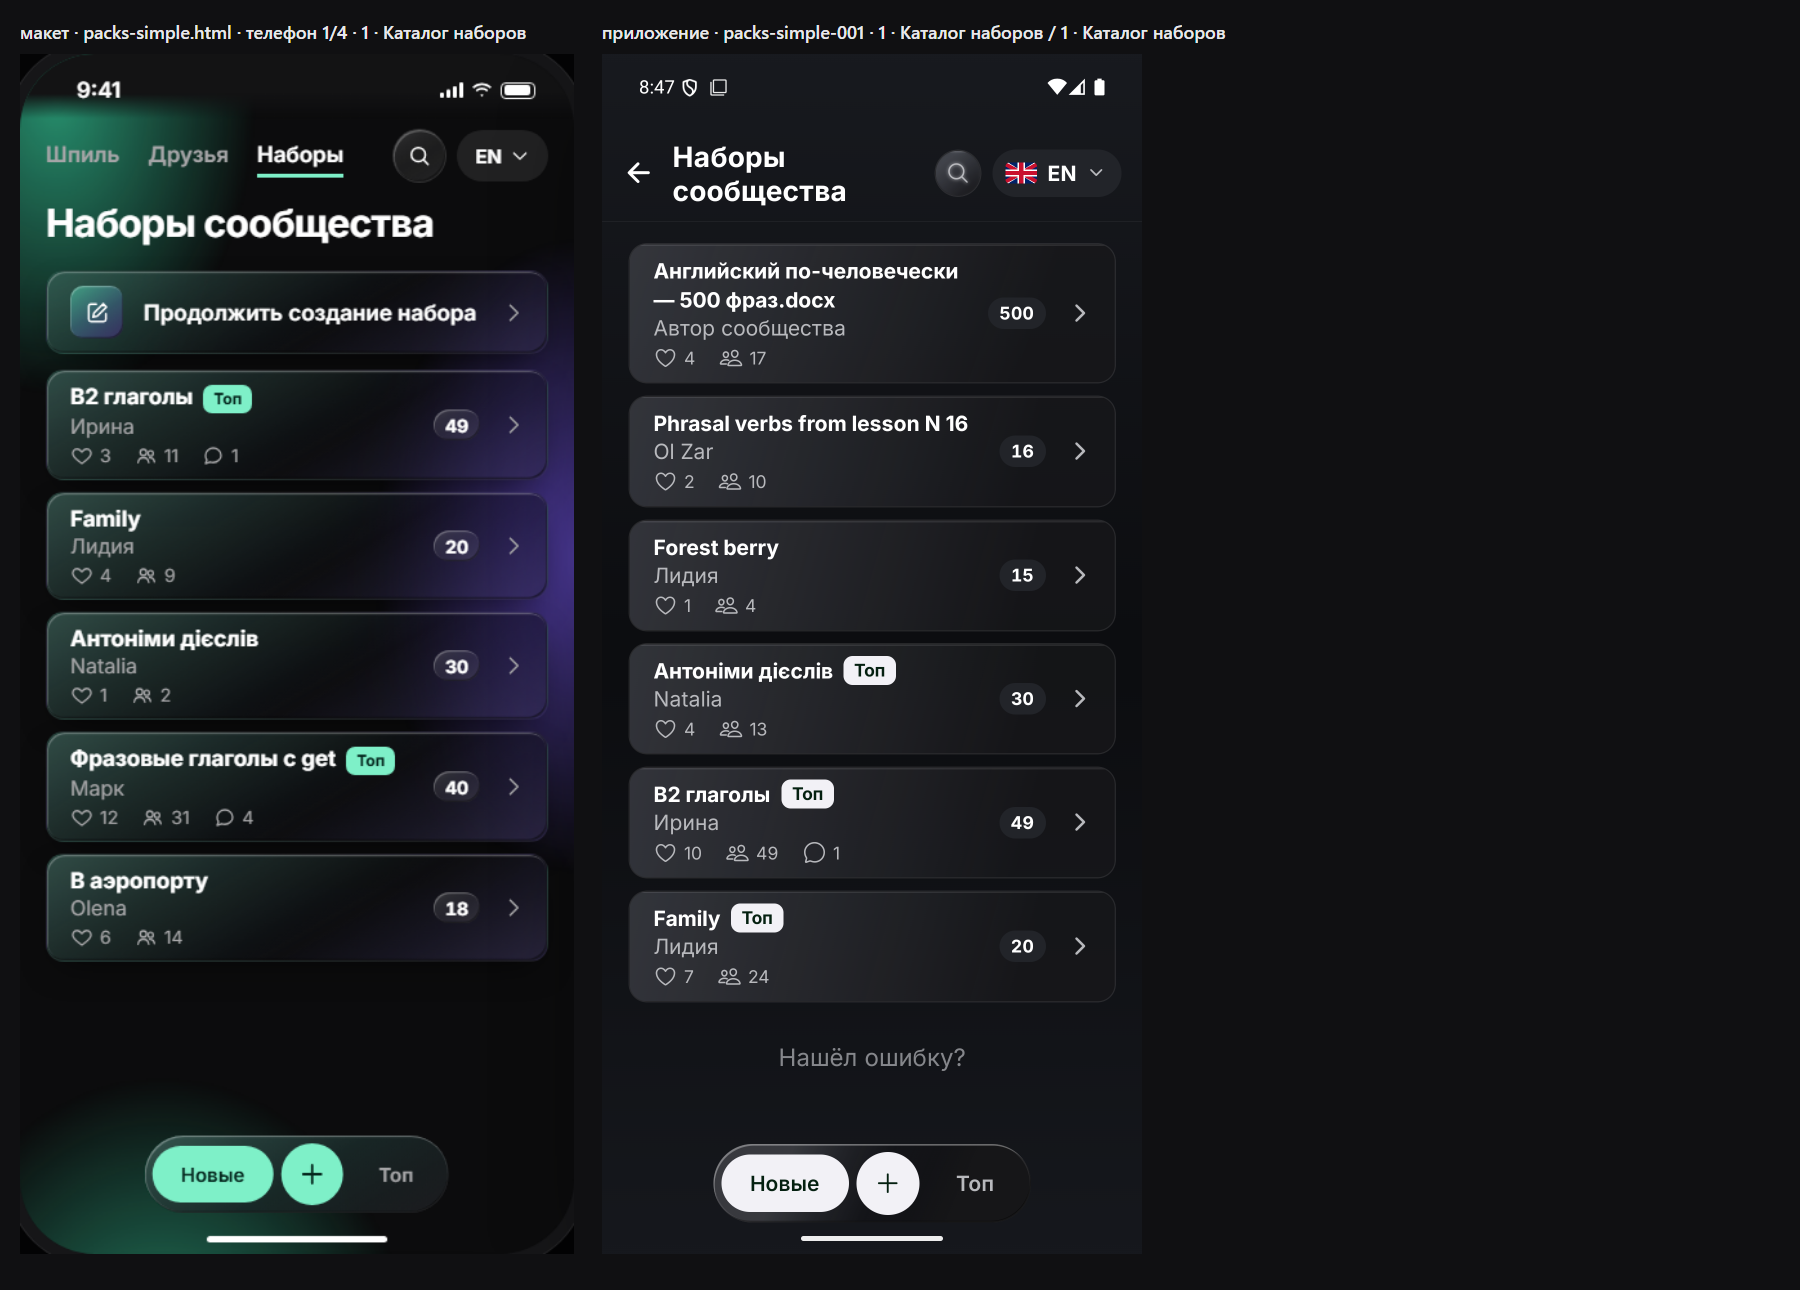
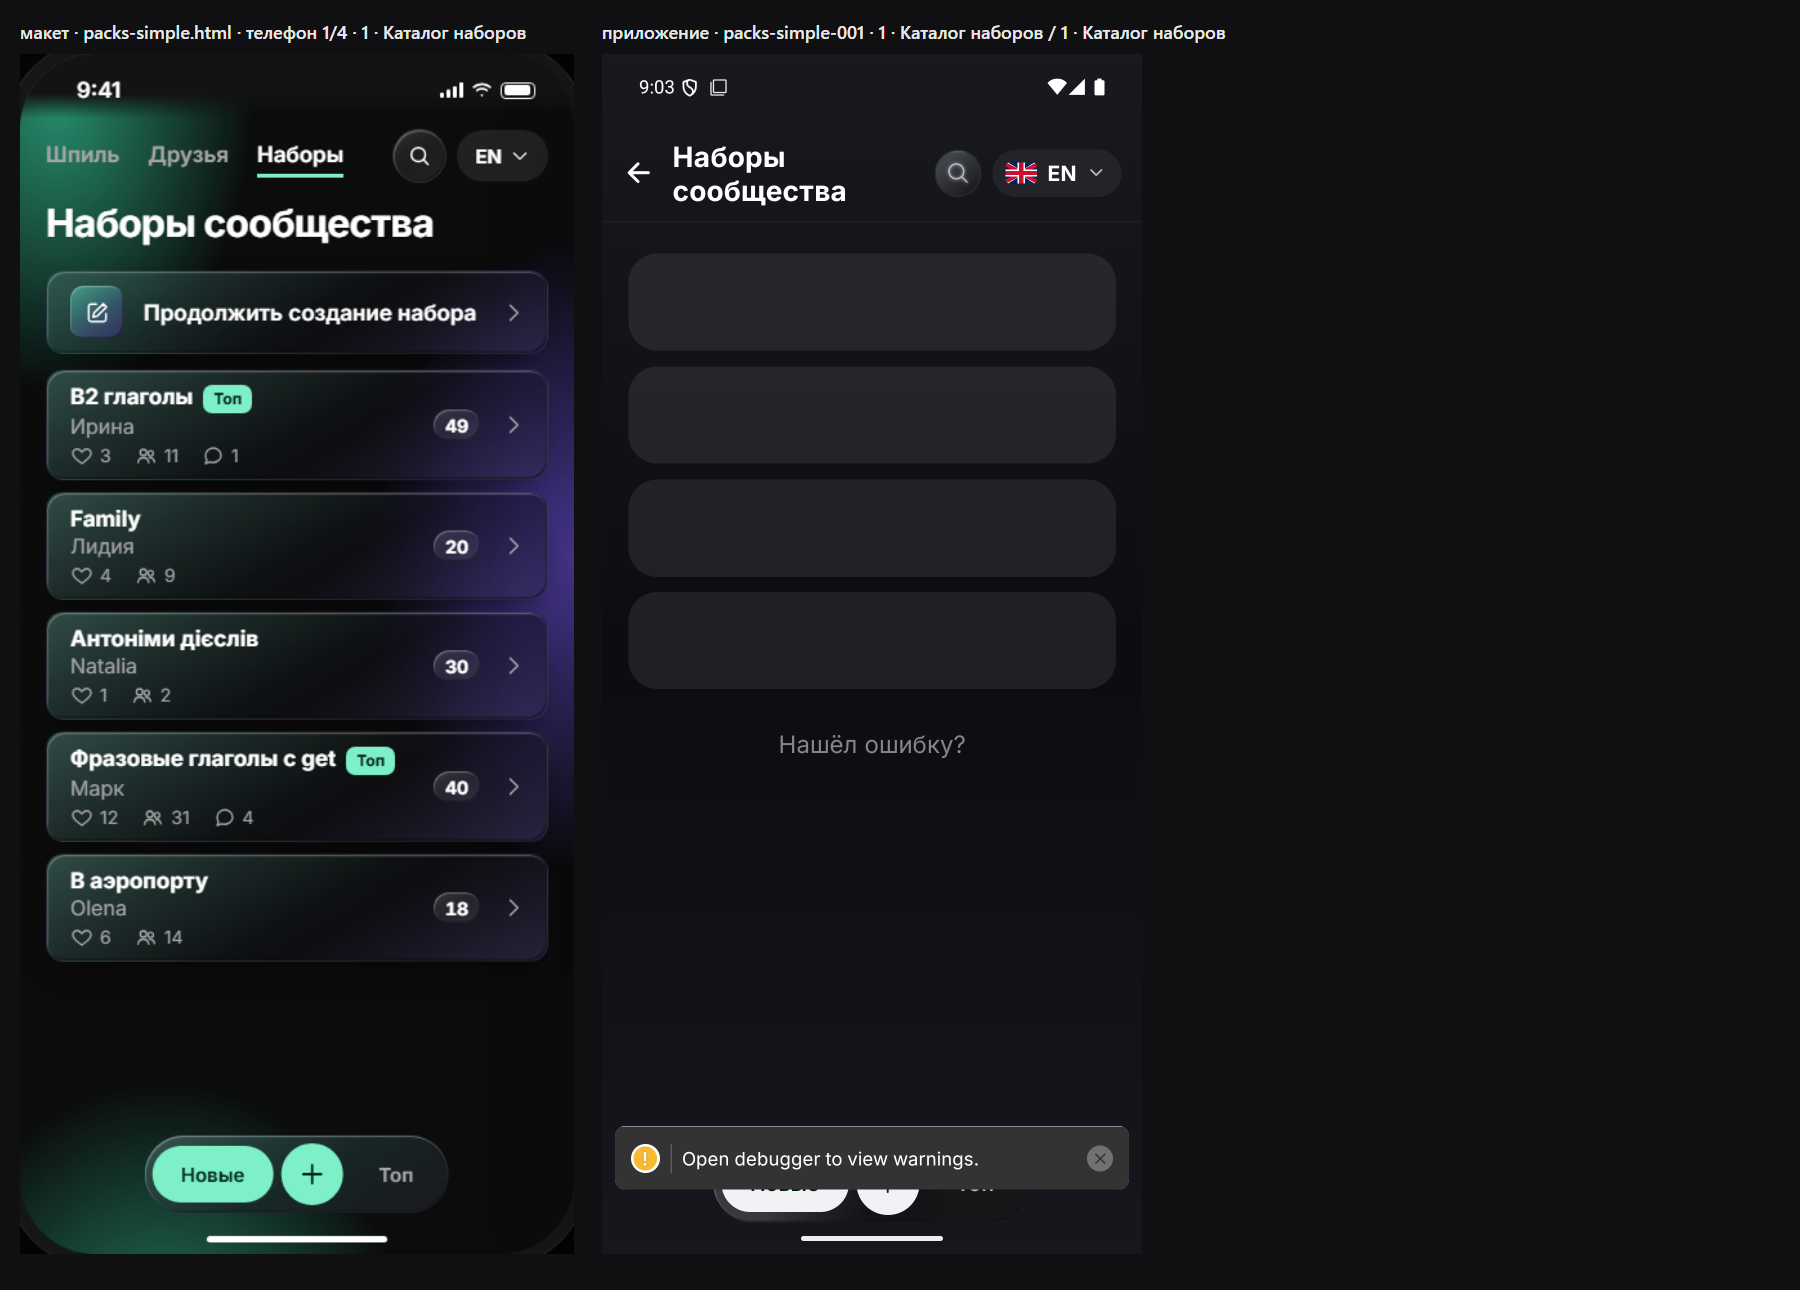
docs(parity): cards-section-033 совпал, packs-simple-001 скелетон
pic.com>

diff --git a/docs/phraseman-2.0/INBOX_COORDINATOR_FROM_SVERKA.md b/docs/phraseman-2.0/INBOX_COORDINATOR_FROM_SVERKA.md
@@ -469,3 +469,14 @@ cards-section-032 после 1d993b5c4 почти совпадает (шторк
 
 ## 2026-10-10 ~21:05 · СВЕРКА — обычный поток урока 1, светлая «Аврора» (начало)
 Снято: меню урока (learn-020), задание «Собери фразу» (028/029), неверный ответ (032). Интро при «Перепройти» не показывается (сразу задание). Отличия: у макета в шапке энергия ⚡, полоса «N/50» и кнопка «Дальше →»; у приложения звёзды вместо полосы, панель из 5 иконок вместо кнопки, «Объясн…» обрезано; строки «Словарь/Неправильные формы» вместо «Слова урока». 🟡 В светлой правильный ответ «You are late» зелёным на розовом — слабый контраст. Дальше: верный ответ, экзамен, итог (V2DoneScreen), затем всё то же в тёмной.
+
+## 2026-10-10 ~21:05 · СВЕРКА — пересъёмка после a80ee9076
+- **cards-section-033 (Блиц): СОВПАЛ** — «Добавить набор» убрана; белая «Начать» и данные — с пометкой. Кандидат на match.
+- **packs-simple-001 (каталог, холодный вход): ✅ скелетон** вместо пустого экрана. Остаются прежние отличия: нет верхних вкладок «Шпиль/Друзья/Наборы», заголовок в шапке (2 строки), лишняя «Нашёл ошибку?». Замечание: «Нашёл ошибку?» видна и под скелетоном (во время загрузки).
+- Ответ Дизайну про [DIALOGS-OPEN]/[DEEPLINK] и dialogs-001 (Plus/Free) — выше, раздел 20:57.
+
+## 2026-10-10 ~21:08 · СВЕРКА — урок 1, тёмная «Аврора»
+- Меню урока (learn-020), «Собери фразу» (028/029) в тёмной сняты: отличия те же, что в светлой (нет ⚡, звёзды вместо полосы, другие строки, нет «Небольшого совета»).
+- Состояние «Верно + монеты» (D4) пока НЕ поймано: после верного ответа следующее задание открывается быстрее моей съёмки. Нужна запись экрана (`adb screenrecord`) — сделаю следующим шагом.
+- Экраны итога (E1–E4, V2DoneScreen) требуют пройти все 50 фраз; на тестовом аккаунте урок 1 пройден на 1/50. Вопрос координатору: есть ли безопасный путь открыть итог без 50 ответов (ссылка/dev-экран)? Без этого сниму итог только после прохождения.
+- Градиентная кнопка в светлых темах после 989378ea8 (Графит/Сланец/Чернила/Роза/Таупе/Олива/Шалфей, «Акцент», «Максимум») — в очереди, следующий пункт: переключаю темы и снимаю 2–3 экрана с градиентной кнопкой.
